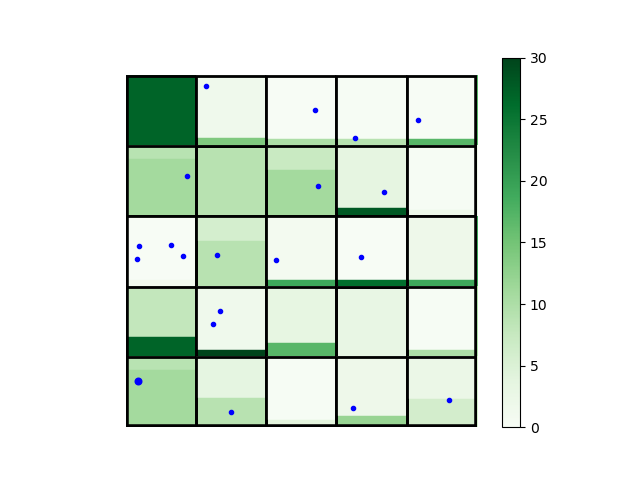
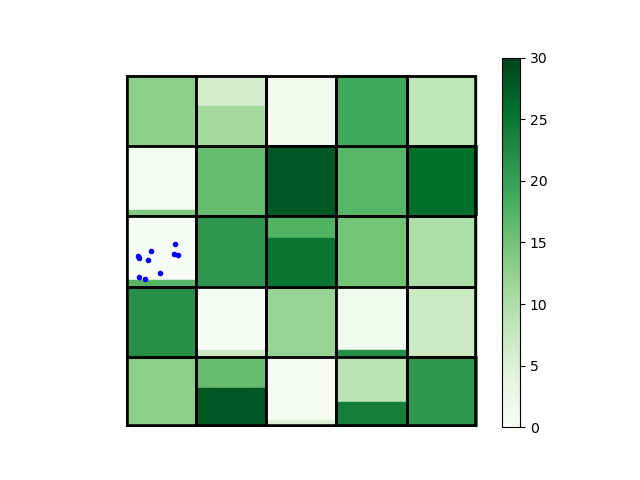
made experiment.py

Changed region(s): [[0.1875, 0.1562, 0.75, 0.9062]]

diff --git a/Run.py b/Run.py
@@ -5,22 +5,7 @@ from classCell import *
 from classBoard import *
 from classScientist import *
 
-# input the name of the file with the parameters (eg config.json or configFiles/citation.json)
-input = input()
-with open(input, "r") as params:
-    data = json.load(params)
-
-weights = data["cellChoiceWeights"]
-funding = data["fundingParams"]
-chooseCellToFund = data["fundDistributionFactors"]
-# semi-firm parameters that you could easily change but probabily won't need to
-exp = data["expForProbabilities"]
-N = data["payoffExtractionParams"]["N"]
-D = data["payoffExtractionParams"]["D"]
-p = data["payoffExtractionParams"]["p"]
-starFactorWeights = data["starFactorWeights"]
-
-def oneRun(board, cellsHit, numRun):
+def oneRun(board, cellsHit, numRun, starFactorWeights):
     """runs query simulation for one year"""
     for key, val in cellsHit.items():
         #more than one scientist
@@ -35,12 +20,19 @@ def oneRun(board, cellsHit, numRun):
     board.drawBoard(cellsHit, numRun, starFactorWeights)
     return board
 
-def batchRun(board, numScientists, numRuns):
+def batchRun(board, numScientists, numRuns, data):
     """
     Runs the simulation for each of numRuns years.
     During each run, each scientist in the department queries the board.
     At the end, an animation of the plots of each run is generated.
     """
+    weights = data["cellChoiceWeights"]
+    funding = data["fundingParams"]
+    chooseCellToFund = data["fundDistributionFactors"]
+    # semi-firm parameters that you could easily change but probabily won't need to
+    exp = data["expForProbabilities"]["num"]
+    starFactorWeights = data["starFactorWeights"]
+
     dept = [Scientist() for i in range(numScientists)]
     for j in range(numRuns):
         # keep track of which cells the scientists are hitting to check overlap
@@ -62,9 +54,9 @@ def batchRun(board, numScientists, numRuns):
             if (scientist.career == 0) or (scientist.funding <= funding["minimum"]):
                 dept.remove(scientist)
                 dept.append(Scientist())
-
-        print("Board with payoff values: ", oneRun(board, board.cellsHit, j+1))
-        print()
+        oneRun(board, board.cellsHit, j+1, starFactorWeights)
+        # print("Board with payoff values: ", oneRun(board, board.cellsHit, j+1, starFactorWeights))
+        # print()
 
     currTotal = sum(board.flatten(board.getPayoffs()))
     print()
@@ -78,5 +70,3 @@ def batchRun(board, numScientists, numRuns):
             save_all=True, duration=500, loop=1)
     return
 
-board = Board(5, 5, 0, N, D, p)
-batchRun(board, numScientists=20, numRuns=20)

diff --git a/experiment.py b/experiment.py
@@ -1,0 +1,38 @@
+import json
+from Run import *
+
+inp = "default.json"
+with open(inp, "r") as params:
+    data = json.load(params)
+
+def experiment(numScientists, numRuns, numExperiments):
+    """
+    runs with given parameters and saves to csv file
+    enter the input(s) in the default.json you want to vary from the default in the command line like so:
+        [paramType] [param] [newValue]
+        cellChoiceWeights citation 1
+        fundDistributionFactors numHits 0.5
+    """
+    inputStr = input()
+    while inputStr != "":
+        if len(inputStr.split()) == 3:
+            typeParam = inputStr.split()[0]
+            param = inputStr.split()[1]
+            newNum = float(inputStr.split()[2])
+            if typeParam in data.keys() and param in data[typeParam].keys():
+                data[typeParam][param] = newNum
+            else:
+                print("parameter you entered does not follow the default style", typeParam, param)
+                return
+        else:
+            print("check input format - input must be of different length")
+            return
+        inputStr = input()
+
+    N = data["payoffExtractionParams"]["N"]
+    D = data["payoffExtractionParams"]["D"]
+    p = data["payoffExtractionParams"]["p"]
+    board = Board(5, 5, 0, N, D, p)
+    for x in range(numExperiments):
+        batchRun(board, numScientists, numRuns, data)
+    return
